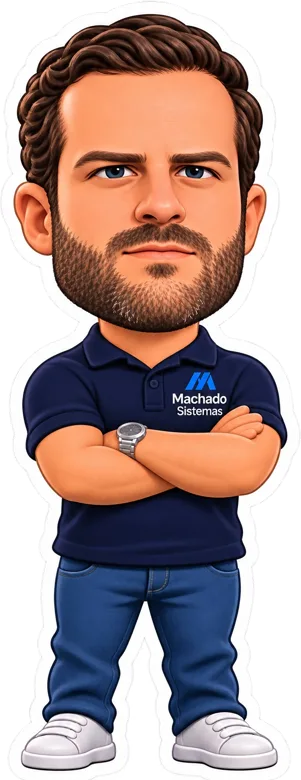
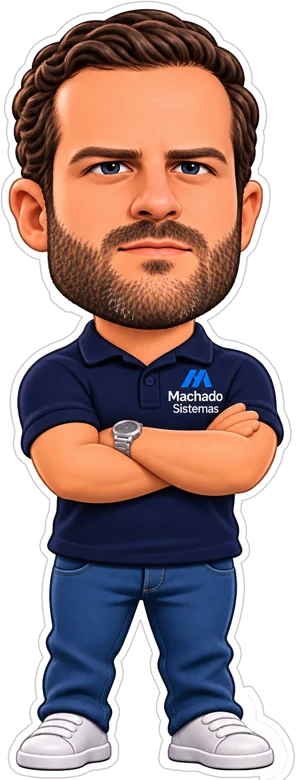
Add files via upload

diff --git a/index.html b/index.html
@@ -43,11 +43,16 @@ section{position:relative;z-index:1;padding:110px 5vw}
 .tag{display:inline-block;background:rgba(63,208,255,.12);color:var(--ciano);border:1px solid rgba(63,208,255,.3);padding:6px 14px;border-radius:999px;font-size:13px;font-weight:700;letter-spacing:.5px;margin-bottom:22px}
 h1{font-size:clamp(38px,5.6vw,72px);line-height:1.02;letter-spacing:-2px;font-weight:900}
 h1 em{font-style:normal;background:linear-gradient(90deg,var(--azul2),var(--ciano));-webkit-background-clip:text;background-clip:text;color:transparent}
-.hero p.lead{font-size:clamp(17px,1.6vw,20px);color:var(--sub);margin:24px 0 34px;max-width:560px}
+.hero p.lead{font-size:clamp(17px,1.6vw,20px);color:var(--sub);margin:24px 0 10px;max-width:560px}
 .acoes{display:flex;gap:14px;flex-wrap:wrap}
-.numeros{display:flex;gap:38px;margin-top:48px;flex-wrap:wrap}
+.numeros{display:flex;gap:30px;margin-top:34px;flex-wrap:wrap}
 .numeros b{display:block;font-size:34px;font-weight:900;letter-spacing:-1px}
 .numeros span{color:var(--sub);font-size:14px}
+.numeros{align-items:center}
+.destaque-lojas{display:flex;align-items:center;gap:16px;background:linear-gradient(135deg,rgba(31,107,255,.35),rgba(63,208,255,.15));border:1.5px solid rgba(63,208,255,.55);padding:16px 26px 16px 22px;border-radius:24px;box-shadow:0 0 40px rgba(63,208,255,.25);animation:brilha-l 3s ease-in-out infinite}
+.destaque-lojas b{font-size:clamp(46px,5vw,64px)!important;background:linear-gradient(90deg,#fff,var(--ciano));-webkit-background-clip:text;background-clip:text;color:transparent;line-height:1}
+.destaque-lojas span{text-align:left;color:#fff!important;font-size:17px!important;font-weight:700;line-height:1.25}
+@keyframes brilha-l{50%{box-shadow:0 0 70px rgba(63,208,255,.5)}}
 
 .palco{perspective:1200px;display:flex;justify-content:center;position:relative}
 .palco .disco{position:absolute;bottom:2%;width:78%;aspect-ratio:3/1;border-radius:50%;background:radial-gradient(closest-side,rgba(31,107,255,.55),transparent);filter:blur(8px);transform:rotateX(70deg)}
@@ -206,12 +211,10 @@ footer{position:relative;z-index:1;padding:40px 5vw;color:var(--sub);font-size:1
     <span class="tag">PATENTE PRÓPRIA · CUBAS 100% INOX</span>
     <h1>Boleador limpo o tempo todo, <em>sem trocar água na mão.</em></h1>
     <p class="lead">O baldinho automático da Machado Sistemas mantém a água corrente para lavar colheres e boleadores no balcão de açaí e sorvete. Mais higiene, menos desperdício e menos trabalho para a sua equipe.</p>
-    <div class="acoes">
-      <a class="btn zap" href="https://wa.me/5548999668902?text=Ol%C3%A1!%20Quero%20saber%20sobre%20os%20baldinhos%20autom%C3%A1ticos" target="_blank" rel="noopener">💬 Pedir orçamento</a>
-      <a class="btn sec" href="#como">Ver como funciona</a>
-    </div>
+    
     <div class="numeros">
-      <div><b data-conta="1000">0</b><span>lojas atendidas</span></div>
+      <div class="destaque-lojas"><b data-conta="1000">0</b><span>lojas já usam os<br>nossos baldinhos</span></div>
+      <div><b>4</b><span>países</span></div>
       <div><b>6</b><span>tamanhos de kit</span></div>
     </div>
   </div>
